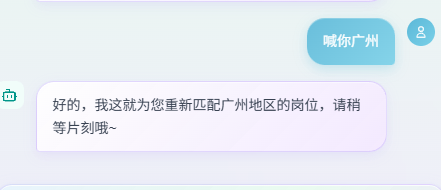
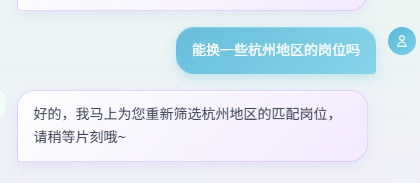
fix: 终极修复-用户直接说城市名时直接处理不走AI流程

diff --git a/src/index.ts b/src/index.ts
@@ -1383,7 +1383,117 @@ ${currentConditions.join('\n')}
         const aiMessageDiv = addMessage(askMessage, false)
         conversationHistory.push({ role: 'assistant', content: askMessage })
       } else {
-        // 用户直接说了新条件，尝试理解
+        // 用户直接说了新条件，先尝试简单直接处理（城市、薪资等）
+        console.log('用户直接说了新条件，尝试简单处理:', message)
+        
+        // 先检查是否直接是城市名（包含"广州"、"杭州"、"北京"、"上海"等）
+        const cityMatch = message.match(/(广州|杭州|北京|上海|深圳|成都|武汉|西安|南京|重庆|天津|苏州|杭州|青岛|长沙|大连|厦门|宁波|无锡|合肥|佛山|郑州|昆明|济南|福州|温州|哈尔滨|石家庄|泉州|南宁|贵阳|南昌|金华|常州|珠海|惠州|嘉兴|南通|中山|东莞|烟台|兰州|海口|银川|西宁|乌鲁木齐)/)
+        
+        if (cityMatch) {
+          // 用户直接说城市名！直接修改条件并触发匹配！
+          console.log('检测到用户直接说城市名:', cityMatch[1])
+          
+          // 更新城市条件
+          careerExpectations.city = cityMatch[1]
+          
+          // 显示处理中
+          addMessage(message, true)
+          messageInput.value = ''
+          
+          const aiMessageDiv = addMessage('好的，正在为您重新匹配' + cityMatch[1] + '地区的岗位……', false)
+          const aiTextElement = aiMessageDiv?.querySelector('.ai-message') as HTMLElement
+          
+          // 重置状态
+          isAdjustingConditions = false
+          adjustingStep = 0
+          
+          // 隐藏发送按钮，显示停止按钮
+          if (sendBtn) sendBtn.classList.add('hidden')
+          if (stopBtn) stopBtn.classList.remove('hidden')
+          
+          try {
+            isGenerating = true
+            
+            // 重新初始化渐进式筛选，用新条件
+            await initProgressiveFilter()
+            
+            // 模拟逐步筛选
+            const questionKeys = ['industry', 'jobType', 'city', 'salary', 'other']
+            for (let i = 0; i < questionKeys.length; i++) {
+              const key = questionKeys[i]
+              const value = careerExpectations[key as keyof CareerExpectations]
+              if (value) {
+                await executeProgressiveFilterStep(i + 1, value)
+              }
+            }
+            
+            // 获取最终筛选结果
+            const filterResult = await getFinalFilteredJobs()
+            
+            // 从 localStorage 获取学生画像
+            const studentProfile = JSON.parse(localStorage.getItem('studentProfile') || '{}')
+            
+            // 进行AI匹配
+            let result: any = null
+            if (filterResult && filterResult.jobs && filterResult.jobs.length > 0) {
+              result = await performAIMatching(filterResult.jobs, studentProfile, filterResult.message)
+            } else {
+              // 回退到传统方式
+              const matchRequest = {
+                expectations: careerExpectations,
+                profile: studentProfile
+              }
+              
+              const response = await fetch('/api/job-match', {
+                method: 'POST',
+                headers: { 'Content-Type': 'application/json' },
+                body: JSON.stringify(matchRequest)
+              })
+              
+              result = await response.json()
+            }
+            
+            // 保存匹配分析结果
+            if (result.analysis) {
+              const existingProfile = JSON.parse(localStorage.getItem('studentProfile') || '{}')
+              existingProfile.jobMatch = result.analysis
+              localStorage.setItem('studentProfile', JSON.stringify(existingProfile))
+              
+              // 更新卡片UI
+              updateProfileCard(existingProfile)
+            }
+            
+            // 显示结果
+            if (aiTextElement) {
+              aiTextElement.textContent = result.message || '已根据新条件重新匹配，请查看左侧卡片！'
+            }
+            
+            conversationHistory.push({ role: 'assistant', content: result.message || '已根据新条件重新匹配，请查看左侧卡片！' })
+            
+          } catch (error) {
+            console.error('重新匹配出错:', error)
+            if (aiTextElement) {
+              aiTextElement.textContent = '抱歉，重新匹配时出现问题，请稍后重试。'
+            }
+          } finally {
+            isGenerating = false
+            
+            // 恢复发送按钮
+            if (sendBtn) {
+              sendBtn.classList.remove('hidden')
+              sendBtn.style.opacity = '1'
+              sendBtn.style.pointerEvents = 'auto'
+            }
+            if (stopBtn) {
+              stopBtn.classList.add('hidden')
+            }
+          }
+          
+          return
+        }
+        
+        // 如果不是简单城市名，才走AI重新理解的流程
+        console.log('不是简单城市名，走AI重新理解流程')
         isAdjustingConditions = false
         adjustingStep = 0
         
@@ -2093,7 +2203,7 @@ ${jobsSummary}
     
     // 检查是否要调整条件
     if (userMessage) {
-      const adjustKeywords = ['调整', '修改', '重新匹配', '换一下', '不满意', '换岗位', '重新筛选', '换条件', '改一下', '重新选', '重新找']
+      const adjustKeywords = ['调整', '修改', '重新匹配', '换一下', '不满意', '换岗位', '重新筛选', '换条件', '改一下', '重新选', '重新找', '换一些', '换个', '换地区', '换城市', '换薪资', '换行业']
       const wantsToAdjust = adjustKeywords.some(keyword => userMessage.includes(keyword))
       
       if (wantsToAdjust && Object.keys(careerExpectations).length > 0) {
